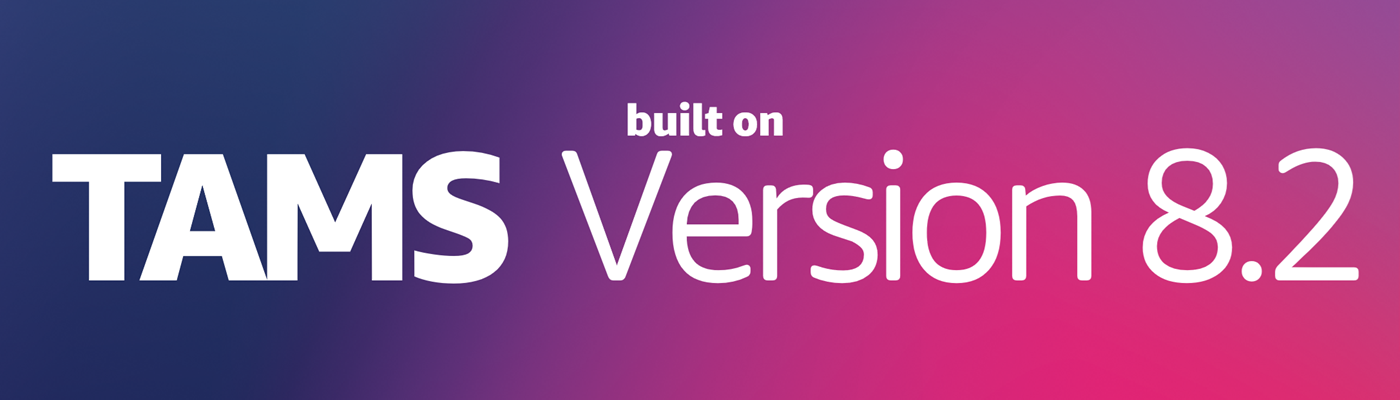
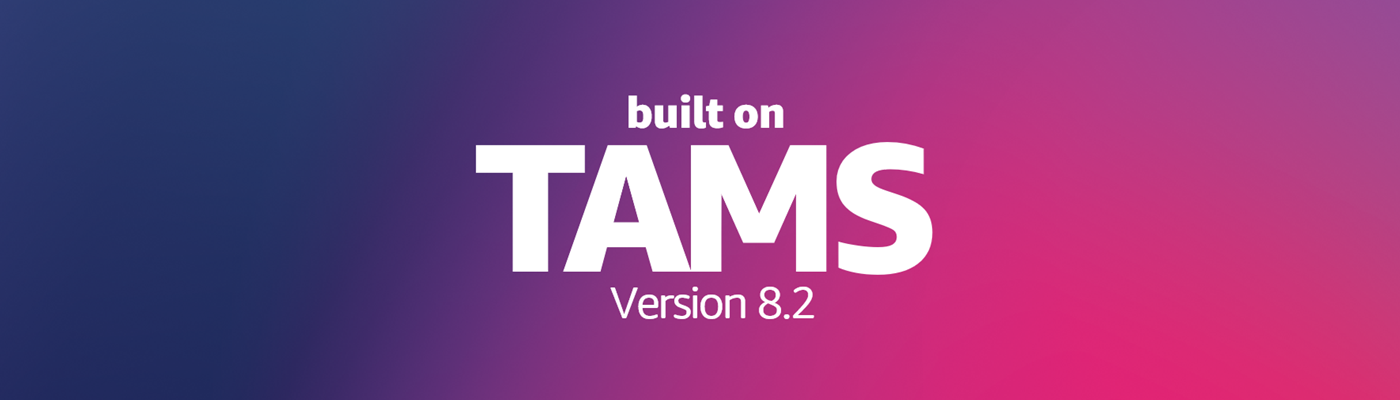
Formating fixes and updated image

Changed region(s): [[0.0307, 0.24, 0.9829, 0.81]]

diff --git a/_posts/2026-08-12-version-8-2.md b/_posts/2026-08-12-version-8-2.md
@@ -18,13 +18,11 @@ tags:
     - Media Transformation
 ---
 
-# TAMS API Specification 8.2: Expanding Format Support, Improving Discovery, and Strengthening Security
-
 The TAMS (Time-Addressable Media Store) community is pleased to announce the release of **API Specification version 8.2**. This is a substantial feature release with major additions that expand what TAMS can do and how implementations can be deployed at scale. From first-class support for fragmented MP4, through improved content discovery, to simplifying Flow management through Profiles, version 8.2 is built directly on community feedback about what would make implementing TAMS simpler and more capable.
 
 ---
 
- ## Fragmented MP4 and Initialisation Segment Support
+## Fragmented MP4 and Initialisation Segment Support
 
 One of the most requested features lands in 8.2: native support for media formats that use **initialisation segments**, including fragmented MP4 (fMP4), CMAF, and MPEG-DASH.
 
